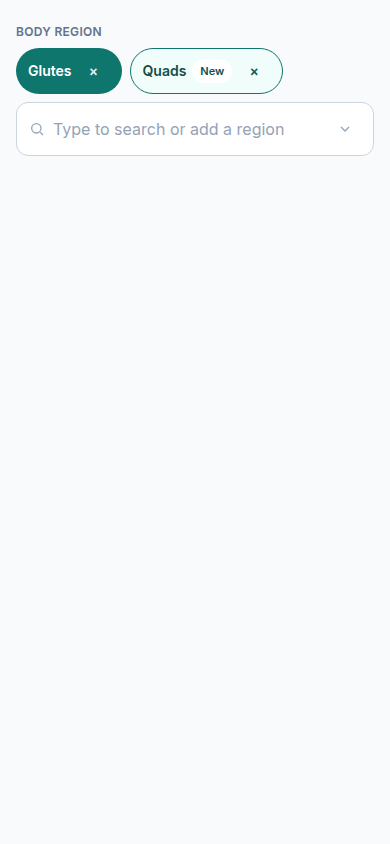
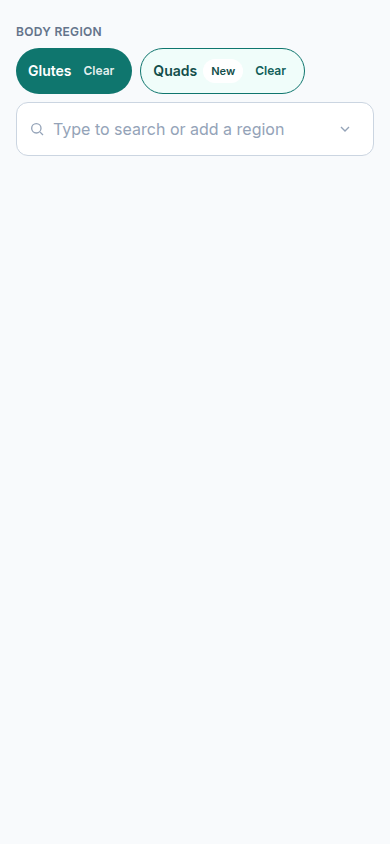
DIDI-1253: visible Clear chip control, verbatim r3 quote

Changed region(s): [[0.2154, 0.0308, 0.6154, 0.1232], [0.6462, 0.0616, 0.7385, 0.1232], [0.7692, 0.0616, 0.8, 0.0924]]

diff --git a/design/app/body-region-picker/spec.md b/design/app/body-region-picker/spec.md
@@ -48,7 +48,9 @@ When the AI drafter returns several regions, **keep all of them**: pre-fill one 
 
 > hmm I think technically an exercise can target multiple areas (for example, glutes and quads). so it should be a text field that as you type it shows suggestions. if there are no suggestions then add row (variant a). once they click that, it becomes a chip (variant b)
 
-**Diadem, Nov 18, 2026, 5:34 PM ET** (on r3): mostly good; asked for a hint and `|` marker while typing.
+**Diadem, Nov 18, 2026, 5:34 PM ET** (on r3), verbatim:
+
+> mostly good, however it's not clear that a use can type there. maybe add a hint and the | marker while they're typing
 
 **Diadem, Nov 18, 2026, 5:49 PM ET**, verbatim:
 
@@ -80,7 +82,7 @@ Row below the label: `flex flex-wrap gap-2` (8 px gap), `min-h-11` (44 px) touch
 | -- | -- |
 | Existing catalog region | `rounded-full`, fill `#0f766e` (teal-700), white text, semibold `text-sm` |
 | New region (not in catalog or AI-new) | `rounded-full`, fill `#f0fdfa`, border `#0f766e`, text `#115e59`, plus white pill **New** tag (`TAG_NEW`) on the chip |
-| Remove control | Icon button on each chip, `aria-label` **Clear** (reuses `CLEAR` string) |
+| Remove control | Visible text button **Clear** on each chip: `h-8`, `min-w-8`, `rounded-full`, `text-xs` semibold; `white/90` on existing chips, `#115e59` on New chips (reuses `CLEAR`, `src/ui/copy/exercise-library.ts` line 12) |
 
 ### Typeahead field
 
@@ -137,7 +139,7 @@ All AI-returned regions arrive as pre-filled chips. Catalog matches use existing
 - Typeahead: `role="combobox"`, `aria-expanded`, `aria-controls`, `aria-autocomplete="list"`, `aria-activedescendant` on highlighted option when open.
 - List: `role="listbox"`, `aria-label` **Body region**.
 - Options: `role="option"`.
-- Chip remove: `aria-label` **Clear**.
+- Chip remove: visible text button **Clear** (`CLEAR`, `src/ui/copy/exercise-library.ts` line 12).
 - Icons: `aria-hidden` where decorative.
 
 ## Loading, errors, and validation
@@ -179,10 +181,7 @@ All AI-returned regions arrive as pre-filled chips. Catalog matches use existing
 | -- | -- | -- |
 | Body region | `Body region` | `src/ui/copy/exercise-library.ts` line 16 (`BODY_REGION`) |
 | New | `New` | `src/ui/copy/exercise-library.ts` line 49 (`TAG_NEW`) |
-| Clear | `Clear` | `src/ui/copy/exercise-library.ts` line 12 (`CLEAR`); chip remove `aria-label` and visible affordance reuse this verbatim (variant B) |
-| Save | `Save` | `src/ui/copy/exercise-requests.ts` line 83 (`SAVE`) |
-| Cancel | `Cancel` | `src/ui/copy/exercise-requests.ts` line 84 (`CANCEL`) |
-| Basics | `Basics` | `src/ui/copy/exercise-requests.ts` line 54 (`BASICS`) |
+| Clear | `Clear` | `src/ui/copy/exercise-library.ts` line 12 (`CLEAR`); visible chip remove button (variant B) |
 
 ## Decisions
 
